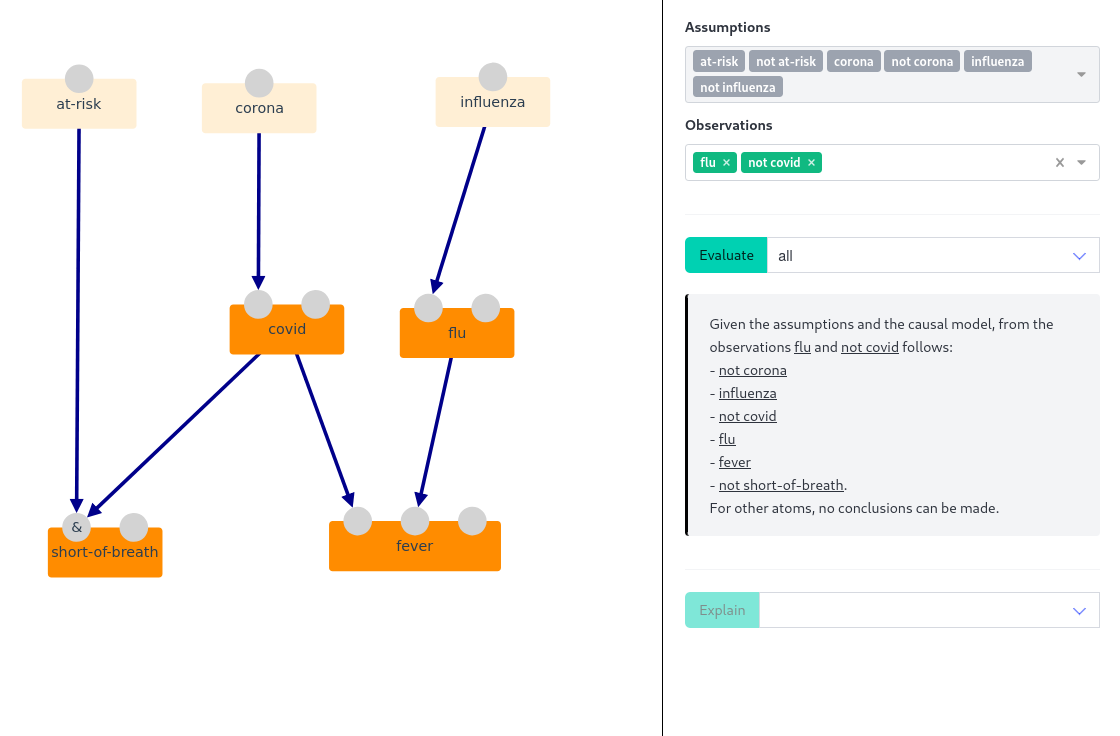
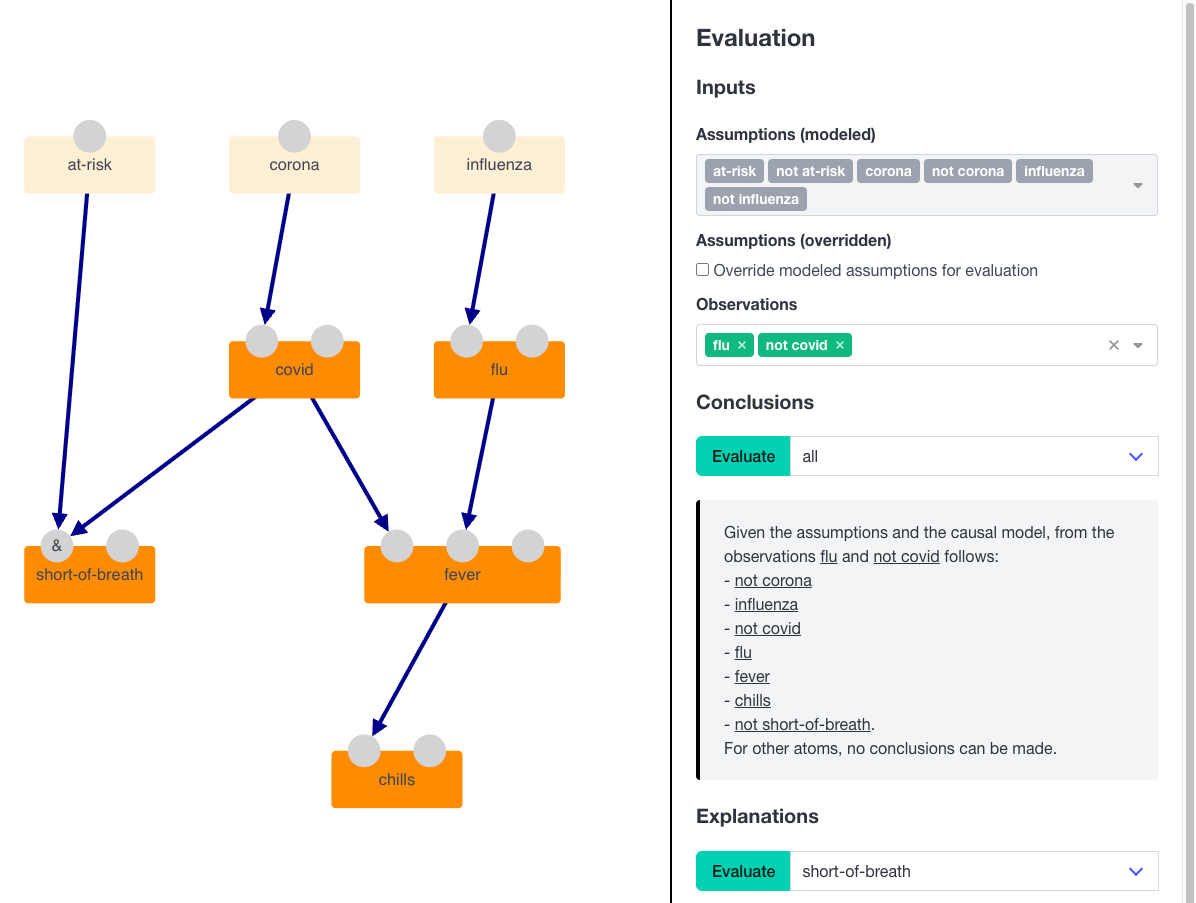
feat: extend the user guide to include sequence explanations

diff --git a/docs/user-guide.md b/docs/user-guide.md
@@ -101,11 +101,13 @@ In contrast to that, `flu` and `covid` are connected to different ports of `feve
 
 ![Causal model demonstrating dependent and independent causal relations](/images/step_4_combination_of_relations.png)
 
-## Evaluating the Causal Model
+## Getting Conclusions
 
 On the right you have an evaluation console.
 
-At the top of the console you will see the *assumptions* about your background atoms. This is only a read-only overview. To edit the assumptions edit them by clicking on the atom in the model and edit the assumptions in the property dialog. Per default, all possible assumptions are included, representing the fact that we make no assumptions about the background atoms.
+At the top of the console you see a read-only overview of the *assumptions* about your background atoms.
+To change them, click the background atom in the model and edit its assumptions in the property dialog.
+If needed, you can choose to override the assumptions for the evaluation without editing your causal model.
 
 Next, you can select observations about your explainable atoms. By setting observations, you presume some statements to be either true or false. By evaluating with different observations, you can use this tool to explore alternative results for hypothetical realities (aka. counterfactual reasoning or "what if" questions).
 
@@ -121,29 +123,33 @@ A method for quantitative evaluation is still in development.
 
 ## Getting Explanations
 
-
-After running the evaluation, you can select to explain how the conclusion of an atom was drawn.
-This will give you a text about which other atoms influenced the conclusion about your selected atom.
-It will also highlight the atoms and connections in the model that contributed to its conclusion.
-
-::: info
-The current explanation is very rudimentary.
-We continue development to provide more insightful explanations.
-:::
+In addition to evaluating conclusions, you can explain how the conclusion of an atom was drawn.
 
 To get an explanation:
 
 * locate the button titled "Explain"
-* Select an atom in the dropdown next to it
+* select an atom in the dropdown next to it
 * click the button
 
-![Explanation of a selected atom](/images/step_6_explanation_results.png)
+First, the explanation shows which atoms influenced the conclusion and highlights them in the model.
 
+![Explanation for a selected atom](/images/step_6_explanation_results.png)
+
+Next, it computes a sequence explanation that can be opened and inspected in a separate view.
+
+![Sequence explanation for a selected atom](/images/step_7_explanation_results.png)
+
+Sequence explanations are calculated from the *argumentation framework* induced by the causal model.
+You can also inspect the underlying argumentation framework by switching views.
+You can switch freely between the causal model, the argumentation framework, and the sequence explanation views to see how they interrelate.
+
+![Argumentation framework induced by the causal model](/images/step_8_explanation_results.png)
 
 ## Theoretical Background
 
 The graphically modeled knowledge in this tool corresponds to a simplified version of _causal models_ as described by J. Pearl[^1][^2].
-Together with them, we use an approach based on _formal argumentation_ as defined by P. M. Dung[^3][^4] for argumentation-based causal and counterfactual reasoning[^5]. This approach appears promising, as it allows techniques from argumentation frameworks—such as sequence explanations[^6]—to be applied in explanation of reasoning with causal models.
+Together with them, we use an approach based on _formal argumentation_ as defined by P. M. Dung[^3][^4] for argumentation-based causal and counterfactual reasoning[^5].
+This approach appears promising, as it allows techniques from argumentation frameworks—such as sequence explanations[^6]—to be applied in explanation of reasoning with causal models.
 
 [^1]: [Jearl, J.: Causality: Models, Reasoning and Inference, vol. 29. Cambridge Univer-
 sity Press (2000)](https://dl.acm.org/doi/book/10.5555/331969)
